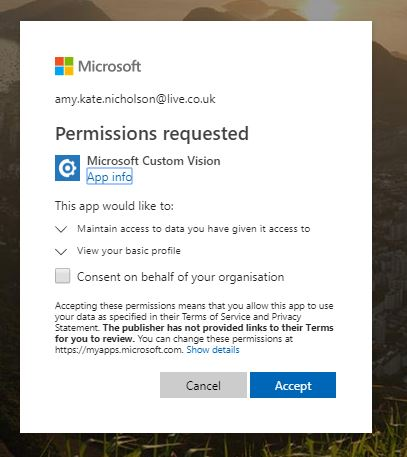
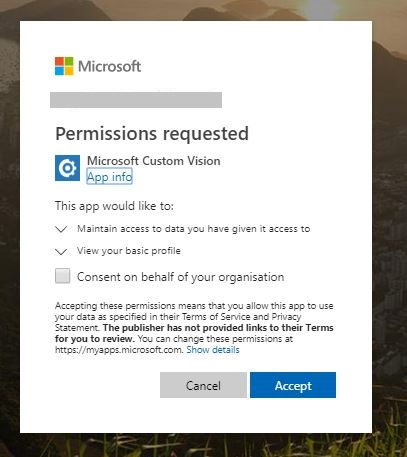
add initial setup instructions

Changed region(s): [[0.1179, 0.1838, 0.5602, 0.2451]]

diff --git a/README.md b/README.md
@@ -1,2 +1,62 @@
-# build-hotdogapp
-Instructions and images needed to create the 'Hot Dog' or 'Not Hot Dog' machine learning model
+# Build the popular ‘Hot Dog’ or ‘Not Hot Dog’ app in 30 mins using Machine Learning
+
+This Github repository is instructions for the instructor led Student Lab at Microsoft Build 2019. 
+
+* **Session Title:** Build the popular ‘Hot Dog’ or ‘Not Hot Dog’ app in 30 mins using Machine Learning
+* **Session Abstract:** Have you watched the hilarious clip from Silicon Valley when the team created a camera app that recognizes ‘hot dogs’ and ‘not hot dogs’? Want to know how you can build something similar in just 30 mins and explain to your friends how it works? Come along to this interactive session where you will learn how machine learning can power an application to recognize objects in a picture. Finally, turn your project into a live web app after the session with step-by-step instructions online.
+
+## So lets build a Hot Dog, Not Hot Dog classification application ...
+
+1. Please visit the website: [https://www.customvision.ai/](https://www.customvision.ai/). This is a website where we can build a machine learning classifier using no code.
+
+![Custom Vision Website](instructions/customvision.JPG "Custom Vision Website")
+
+2. Please choose the **'Sign In'** button and enter your Azure account email address username and password
+
+On the **'Stay signed in?'** page select **No**
+
+> You will encounter a **permissions window**. This is making sure that you are happy for the Custom Vision website to access your Azure subscription. We will use this access to create a machine learning project instance.
+
+> When you see this pop up please accept **Yes**
+![Permissions Requested pop up](instructions/permission-requested.JPG "Permissions Requested pop up")
+
+Then finally please accept the terms of service. Check the box and click the **I Agree** button
+
+![Terms of Service Pop Up](instructions/terms-of-service.JPG "Terms of Service Pop Up")
+
+3. Now everything is setup you should land on a blank page with the **NEW PROJECT** box below. Select the **NEW PROJECT** button
+
+![New Project Page](instructions/create-new-project.JPG "New Project Page")
+
+4. A **Create New Project** window should open. Enter the details below:
+* Name: Hot Dog or Not
+* Description: A classifier to understand if there are hot dogs in an image or other food
+
+For the **Resource Group** box, we need to create a new one of these. Select the **create new** link.
+
+![Create Project input](instructions/project-name.JPG "Create Project input")
+
+5. After clicking create new the **Create New Resource Group** window will open. Enter the details below:
+* Name: application
+* Azure Subscription: Choose the subscription you have setup today
+* Location: West US 2
+* Pricing Tier: SO
+
+The select the **Create resource** button
+
+![Create resource group](instructions/resource-group.JPG "Create resource group")
+
+6. Once complete, you will return to the **Create new project** window and more options will appear. Select the details below:
+* Project Types: Classification
+* Classification Types: Multiclass (single tag per image)
+* Domains: Food
+
+Then select the **Create project** button
+
+![Create Project complete](instructions/select-settings.JPG "Create Project complete")
+
+
+
+
+
+
